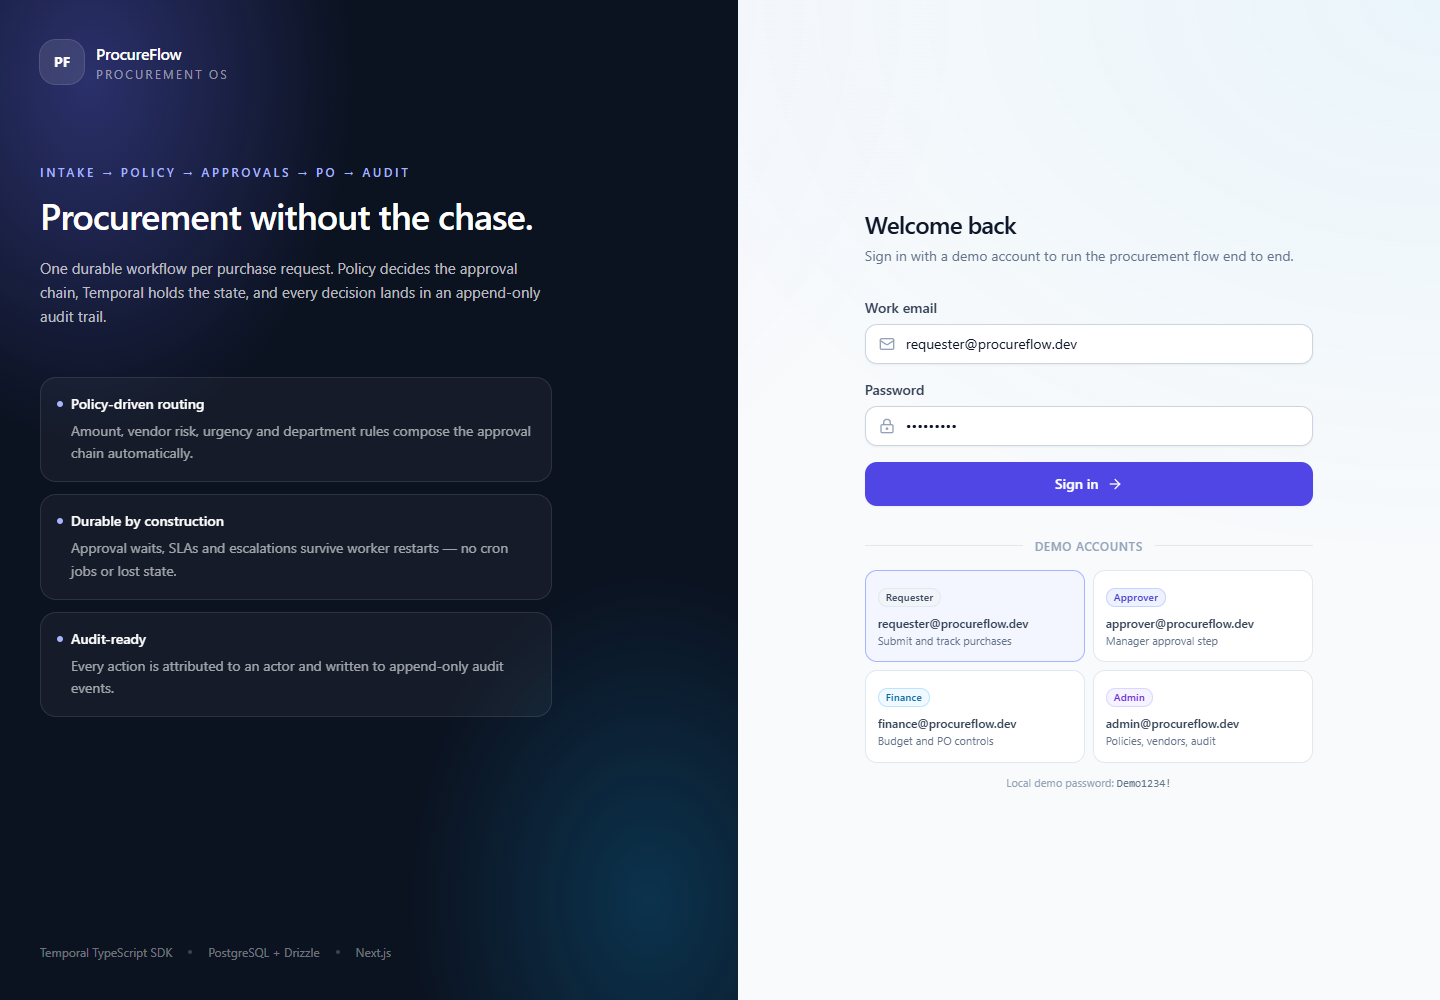
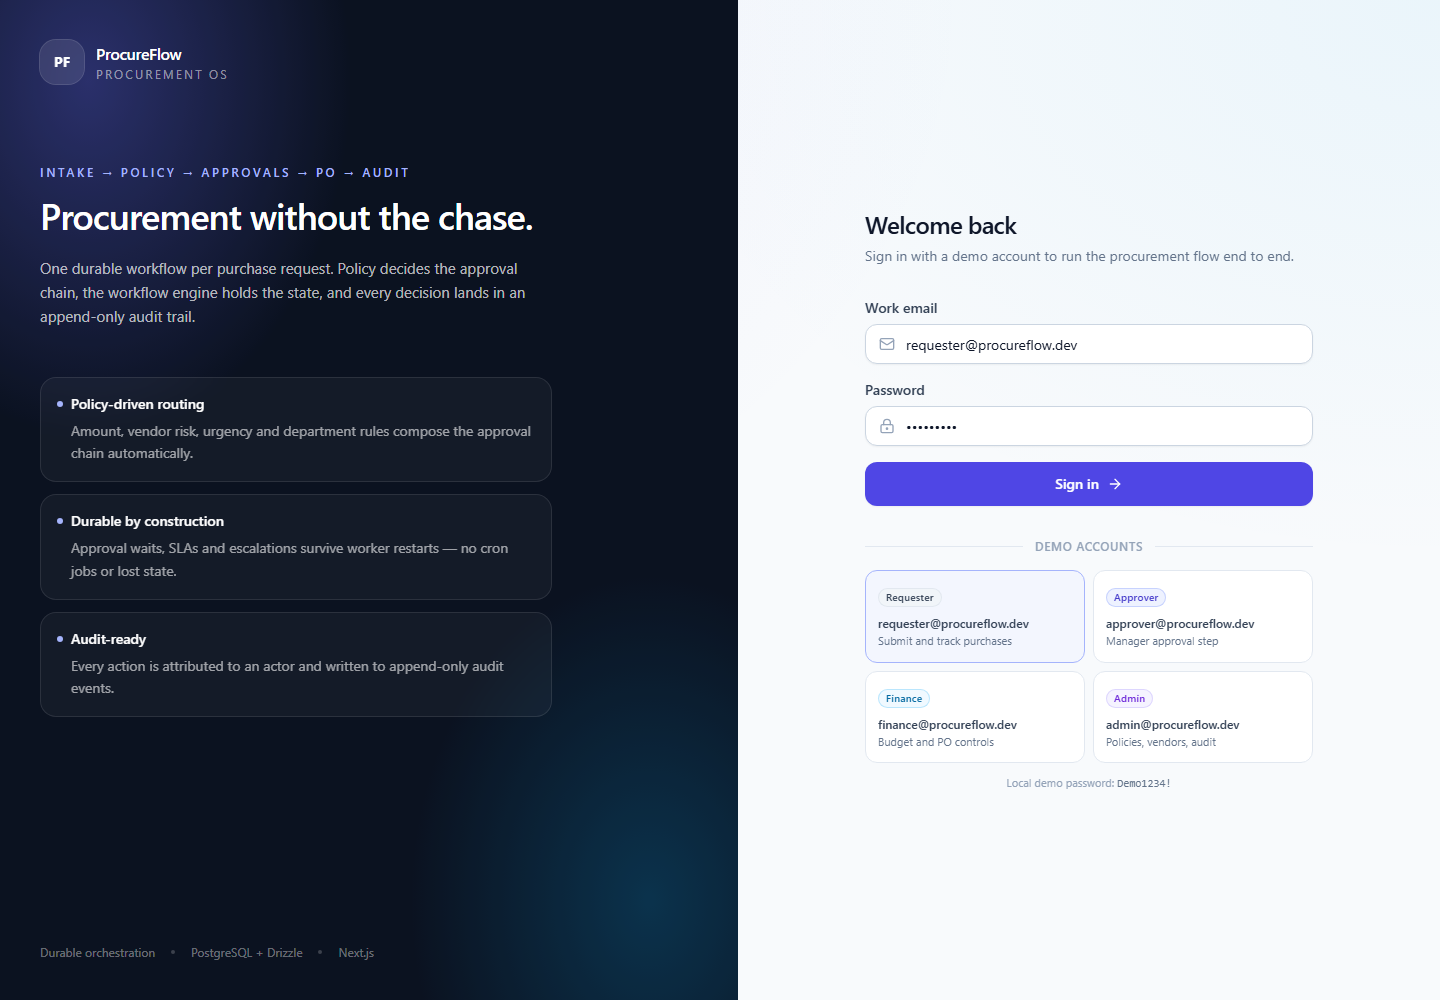
refactor(ui): make product surfaces and health payload vendor-neutral
Remove engine branding from navigation, login, workflow panels, approval
actions, vendor/request copy and the public health response. Rename the web
orchestration client module; infrastructure docs and env vars are unchanged
for operators.

diff --git a/apps/web/lib/orchestration.ts b/apps/web/lib/orchestration.ts
@@ -5,7 +5,7 @@ import {
   type ConnectionOptions,
 } from "@temporalio/client";
 import {
-  getTemporalConfig,
+  getOrchestrationConfig,
   type DecisionSignalInput,
   type PurchaseRequestWorkflowInput,
   type PurchaseRequestWorkflowState,
@@ -24,7 +24,7 @@ import {
 let clientPromise: Promise<Client> | undefined;
 
 function connectionOptions(): ConnectionOptions {
-  const config = getTemporalConfig();
+  const config = getOrchestrationConfig();
   return {
     address: config.address,
     ...(config.tls ? { tls: true } : {}),
@@ -32,9 +32,9 @@ function connectionOptions(): ConnectionOptions {
   };
 }
 
-export function getTemporalClient(): Promise<Client> {
+export function getOrchestrationClient(): Promise<Client> {
   if (!clientPromise) {
-    const config = getTemporalConfig();
+    const config = getOrchestrationConfig();
     clientPromise = (async () => {
       const connection = await Connection.connect(connectionOptions());
       return new Client({ connection, namespace: config.namespace });
@@ -62,8 +62,8 @@ export async function startPurchaseRequestWorkflow(params: {
   actorRole: Role;
   workflowId: string;
 }): Promise<StartWorkflowResult> {
-  const config = getTemporalConfig();
-  const client = await getTemporalClient();
+  const config = getOrchestrationConfig();
+  const client = await getOrchestrationClient();
   const input: PurchaseRequestWorkflowInput = {
     requestId: params.requestId,
     actorId: params.actorId,
@@ -99,7 +99,7 @@ export async function signalApprovalDecision(params: {
   actorRole: Role;
   comment?: string;
 }): Promise<void> {
-  const client = await getTemporalClient();
+  const client = await getOrchestrationClient();
   const handle = client.workflow.getHandle(params.workflowId);
   const input: DecisionSignalInput = {
     taskId: params.taskId,
@@ -116,7 +116,7 @@ export async function signalResubmission(params: {
   actorRole: Role;
   comment?: string;
 }): Promise<void> {
-  const client = await getTemporalClient();
+  const client = await getOrchestrationClient();
   const handle = client.workflow.getHandle(params.workflowId);
   const input: ResubmitSignalInput = {
     actorId: params.actorId,
@@ -144,7 +144,7 @@ export async function queryPurchaseRequestState(
   workflowId: string,
 ): Promise<PurchaseRequestWorkflowState | null> {
   try {
-    const client = await withTimeout(getTemporalClient(), 2_500, "temporal_client");
+    const client = await withTimeout(getOrchestrationClient(), 2_500, "orchestration_client");
     const handle = client.workflow.getHandle(workflowId);
     return await withTimeout(
       handle.query<PurchaseRequestWorkflowState>(QUERIES.getState),
@@ -160,8 +160,8 @@ export async function startVendorOnboarding(params: {
   vendorId: string;
   actorId: string;
 }): Promise<StartWorkflowResult> {
-  const config = getTemporalConfig();
-  const client = await getTemporalClient();
+  const config = getOrchestrationConfig();
+  const client = await getOrchestrationClient();
   const workflowId = WORKFLOW_IDS.vendorOnboarding(params.vendorId);
   try {
     const handle = await client.workflow.start(WORKFLOW_NAMES.vendorOnboarding, {
@@ -186,7 +186,7 @@ export async function signalVendorDecision(params: {
   comment?: string;
   riskLevel?: "LOW" | "MEDIUM" | "HIGH";
 }): Promise<void> {
-  const client = await getTemporalClient();
+  const client = await getOrchestrationClient();
   const workflowId = WORKFLOW_IDS.vendorOnboarding(params.vendorId);
   const input: VendorDecisionSignalInput = {
     actorId: params.actorId,
@@ -212,7 +212,7 @@ export async function signalVendorDecision(params: {
 
 export async function queryVendorState(workflowId: string): Promise<VendorOnboardingWorkflowState | null> {
   try {
-    const client = await withTimeout(getTemporalClient(), 2_500, "temporal_client");
+    const client = await withTimeout(getOrchestrationClient(), 2_500, "orchestration_client");
     const handle = client.workflow.getHandle(workflowId);
     return await withTimeout(
       handle.query<VendorOnboardingWorkflowState>(VENDOR_QUERIES.getVendorState),
@@ -225,8 +225,8 @@ export async function queryVendorState(workflowId: string): Promise<VendorOnboar
 }
 
 export async function startNotificationOutboxWorkflow(limit: number): Promise<{ workflowId: string; runId: string }> {
-  const config = getTemporalConfig();
-  const client = await getTemporalClient();
+  const config = getOrchestrationConfig();
+  const client = await getOrchestrationClient();
   const workflowId = `notification-outbox-${Date.now()}-${Math.random().toString(36).slice(2, 8)}`;
   const handle = await client.workflow.start(WORKFLOW_NAMES.notificationOutbox, {
     taskQueue: config.taskQueue,
@@ -236,7 +236,7 @@ export async function startNotificationOutboxWorkflow(limit: number): Promise<{ 
   return { workflowId: handle.workflowId, runId: handle.firstExecutionRunId };
 }
 
-export interface TemporalHealth {
+export interface OrchestrationHealth {
   ok: boolean;
   address: string;
   namespace: string;
@@ -246,15 +246,15 @@ export interface TemporalHealth {
   error?: string;
 }
 
-export async function getTemporalHealth(): Promise<TemporalHealth> {
-  const config = getTemporalConfig();
+export async function getOrchestrationHealth(): Promise<OrchestrationHealth> {
+  const config = getOrchestrationConfig();
   let connection: Connection | undefined;
   try {
-    connection = await withTimeout(Connection.connect(connectionOptions()), 3_000, "temporal_connect");
+    connection = await withTimeout(Connection.connect(connectionOptions()), 3_000, "orchestration_connect");
     const info = await withTimeout(
       connection.workflowService.getSystemInfo({}),
       3_000,
-      "temporal_system_info",
+      "orchestration_system_info",
     );
     return {
       ok: true,

diff --git a/apps/web/app/(app)/requests/[id]/page.tsx b/apps/web/app/(app)/requests/[id]/page.tsx
@@ -31,7 +31,7 @@ import { ApprovalActions } from "@/components/approvals/approval-actions";
 import { RequestActions } from "@/components/requests/request-actions";
 import { getRequestDetail } from "@/lib/queries";
 import { requirePageUser } from "@/lib/session";
-import { queryPurchaseRequestState } from "@/lib/temporal";
+import { queryPurchaseRequestState } from "@/lib/orchestration";
 import { RISK_STYLES, cn, humanize } from "@/lib/utils";
 
 export const dynamic = "force-dynamic";
@@ -74,10 +74,6 @@ export default async function RequestDetailPage({ params }: { params: { id: stri
     user.id !== detail.requesterId &&
     (user.role === "ADMIN" || currentTask?.approverRole === user.role);
   const isOwner = detail.requesterId === user.id;
-
-  const temporalUiUrl = `${process.env.TEMPORAL_UI_URL ?? "http://localhost:8233"}/namespaces/${
-    process.env.TEMPORAL_NAMESPACE ?? "default"
-  }/workflows/${detail.workflowId ?? ""}`;
 
   return (
     <div className="space-y-6">
@@ -228,7 +224,7 @@ export default async function RequestDetailPage({ params }: { params: { id: stri
                   Approval chain
                 </CardTitle>
                 <p className="mt-0.5 text-sm text-slate-500">
-                  Managed by Temporal workflow <span className="font-mono text-xs">{detail.workflowId}</span>
+                  Managed by durable workflow <span className="font-mono text-xs">{detail.workflowId}</span>
                 </p>
               </div>
               <Badge tone="brand">Step {detail.currentStep || 0}</Badge>
@@ -305,7 +301,7 @@ export default async function RequestDetailPage({ params }: { params: { id: stri
                   <p className="font-semibold">An approver requested changes.</p>
                   <p className="mt-1 text-orange-700">
                     Update the request if needed, then use <strong>Resubmit for approval</strong>. The same
-                    Temporal workflow resumes with a new policy evaluation.
+                    workflow resumes with a new policy evaluation.
                   </p>
                 </div>
               ) : null}
@@ -363,7 +359,7 @@ export default async function RequestDetailPage({ params }: { params: { id: stri
             <CardHeader>
               <CardTitle className="flex items-center gap-2">
                 <Workflow className="h-4 w-4 text-slate-400" />
-                Temporal workflow
+                Workflow execution
               </CardTitle>
             </CardHeader>
             <CardContent className="space-y-4">
@@ -417,21 +413,10 @@ export default async function RequestDetailPage({ params }: { params: { id: stri
                 </>
               ) : (
                 <p className="text-xs leading-relaxed text-slate-500">
-                  Workflow state is queried live from Temporal. If the worker or server is offline, the
-                  PostgreSQL read model above remains authoritative.
+                  Workflow state is queried live from the orchestration service. If the worker or server is
+                  offline, the PostgreSQL read model above remains authoritative.
                 </p>
               )}
-              {detail.workflowId ? (
-                <a
-                  href={temporalUiUrl}
-                  target="_blank"
-                  rel="noreferrer"
-                  className="inline-flex items-center gap-1.5 text-xs font-medium text-brand-600 hover:text-brand-700"
-                >
-                  Open in Temporal UI
-                  <ExternalLink className="h-3.5 w-3.5" />
-                </a>
-              ) : null}
             </CardContent>
           </Card>
 

diff --git a/apps/web/app/api/health/route.ts b/apps/web/app/api/health/route.ts
@@ -1,7 +1,7 @@
 import { sql } from "drizzle-orm";
 import { getDb } from "@procureflow/db";
-import { getTemporalConfig } from "@procureflow/shared";
-import { getTemporalHealth } from "@/lib/temporal";
+import { getOrchestrationConfig } from "@procureflow/shared";
+import { getOrchestrationHealth } from "@/lib/orchestration";
 import { json } from "@/lib/api";
 
 export const dynamic = "force-dynamic";
@@ -25,9 +25,9 @@ async function checkDatabase(): Promise<{ ok: boolean; latencyMs: number; error?
 
 export async function GET() {
   const started = Date.now();
-  const [database, temporal] = await Promise.all([checkDatabase(), getTemporalHealth()]);
-  const config = getTemporalConfig();
-  const healthy = database.ok && temporal.ok;
+  const [database, orchestration] = await Promise.all([checkDatabase(), getOrchestrationHealth()]);
+  const config = getOrchestrationConfig();
+  const healthy = database.ok && orchestration.ok;
 
   return json(
     {
@@ -42,17 +42,17 @@ export async function GET() {
           latencyMs: database.latencyMs,
           ...(database.error ? { error: database.error } : {}),
         },
-        temporal: {
-          ok: temporal.ok,
-          address: temporal.address,
-          namespace: temporal.namespace,
-          taskQueue: temporal.taskQueue,
-          serverVersion: temporal.serverVersion,
-          reworkEnabled: temporal.reworkEnabled,
-          ...(temporal.error ? { error: temporal.error } : {}),
+        orchestration: {
+          ok: orchestration.ok,
+          address: orchestration.address,
+          namespace: orchestration.namespace,
+          taskQueue: orchestration.taskQueue,
+          engineVersion: orchestration.serverVersion,
+          searchAttributesEnabled: orchestration.reworkEnabled,
+          ...(orchestration.error ? { error: orchestration.error } : {}),
         },
       },
-      temporalReworkEnabled: config.reworkEnabled,
+      features: { searchAttributes: config.reworkEnabled },
     },
     healthy ? 200 : 503,
   );

diff --git a/scripts/smoke.ts b/scripts/smoke.ts
@@ -1,13 +1,13 @@
 /**
  * End-to-end smoke test against a running ProcureFlow stack.
  *
- * Prerequisites: Postgres, Temporal, the worker and the Next.js app are running,
+ * Prerequisites: Postgres, the workflow engine, the worker and the Next.js app are running,
  * and the database has been migrated + seeded.
  *
  *   pnpm smoke
  *   BASE_URL=http://localhost:3000 pnpm smoke
  *
- * It exercises the real HTTP API, real Temporal workflows and the real database:
+ * It exercises the real HTTP API, real durable workflows and the real database:
  * login -> create request -> submit -> manager approve -> finance approve ->
  * PO issued -> audit trail visible.
  */
@@ -191,12 +191,12 @@ async function main(): Promise<void> {
 
   const health = await requester.json<{
     status: string;
-    checks: { database: { ok: boolean }; temporal: { ok: boolean; address: string } };
+    checks: { database: { ok: boolean }; orchestration: { ok: boolean; address: string } };
   }>("/api/health");
   if (health.status !== "ok") {
     throw new Error(`Health check is not OK: ${JSON.stringify(health)}`);
   }
-  console.log(`  ✓ health ok (Temporal ${health.checks.temporal.address})`);
+  console.log(`  ✓ health ok (workflow engine ${health.checks.orchestration.address})`);
 
   await requester.login("requester@procureflow.dev");
   await approver.login("approver@procureflow.dev");
@@ -232,7 +232,7 @@ async function main(): Promise<void> {
   if (!submitResponse.ok) {
     throw new Error(`Submit failed: ${submitResponse.status} ${await submitResponse.text()}`);
   }
-  console.log("  ✓ submitted request; Temporal workflow started");
+  console.log("  ✓ submitted request; durable workflow started");
 
   const detail = await waitFor<RequestDetailResponse>(
     "approval chain",

diff --git a/apps/web/app/login/page.tsx b/apps/web/app/login/page.tsx
@@ -44,8 +44,8 @@ export default async function LoginPage({
               Procurement without the chase.
             </h1>
             <p className="mt-5 text-[15px] leading-relaxed text-white/70">
-              One durable workflow per purchase request. Policy decides the approval chain, Temporal
-              holds the state, and every decision lands in an append-only audit trail.
+              One durable workflow per purchase request. Policy decides the approval chain, the workflow
+              engine holds the state, and every decision lands in an append-only audit trail.
             </p>
           </div>
 
@@ -70,7 +70,7 @@ export default async function LoginPage({
         </div>
 
         <div className="relative flex items-center gap-4 text-xs text-white/40">
-          <span>Temporal TypeScript SDK</span>
+          <span>Durable orchestration</span>
           <span className="h-1 w-1 rounded-full bg-white/20" />
           <span>PostgreSQL + Drizzle</span>
           <span className="h-1 w-1 rounded-full bg-white/20" />

diff --git a/apps/web/app/api/approvals/[taskId]/route.ts b/apps/web/app/api/approvals/[taskId]/route.ts
@@ -9,7 +9,7 @@ import {
 } from "@/lib/api";
 import { enforceRateLimit } from "@/lib/rate-limit";
 import { getApprovalTaskForApi } from "@/lib/queries";
-import { signalApprovalDecision } from "@/lib/temporal";
+import { signalApprovalDecision } from "@/lib/orchestration";
 import { logger } from "@/lib/logger";
 
 export const dynamic = "force-dynamic";
@@ -45,7 +45,7 @@ export async function POST(request: Request, context: { params: { taskId: string
       );
     }
     if (!pr.workflowId) {
-      throw new ApiError(409, "This request has no active Temporal workflow", "workflow_missing");
+      throw new ApiError(409, "This request has no active orchestration workflow", "workflow_missing");
     }
 
     await signalApprovalDecision({

diff --git a/apps/web/components/requests/request-edit-form.tsx b/apps/web/components/requests/request-edit-form.tsx
@@ -339,8 +339,8 @@ export function RequestEditForm({
           </div>
           <div className="rounded-xl bg-slate-50 p-3 text-xs leading-relaxed text-slate-600">
             Saving the request updates the PostgreSQL read model and writes a `REQUEST_UPDATED` audit
-            event. Resubmitting sends the `resubmit` signal to the existing Temporal workflow, which
-            re-evaluates policy and starts a new approval chain.
+            event. Resubmitting sends the resubmit signal to the existing workflow, which re-evaluates
+            policy and starts a new approval chain.
           </div>
         </CardContent>
       </Card>

diff --git a/apps/web/components/app-shell.tsx b/apps/web/components/app-shell.tsx
@@ -140,7 +140,7 @@ export function AppShell({
             </div>
             <div className="hidden items-center gap-2 text-xs font-medium text-slate-500 lg:flex">
               <Sparkles className="h-3.5 w-3.5 text-brand-500" />
-              Durable approvals powered by Temporal
+              Durable approvals, audit-ready by default
             </div>
             <div className="flex items-center gap-3">
               <span className="hidden text-xs text-slate-500 sm:block">{user.department}</span>

diff --git a/apps/web/app/layout.tsx b/apps/web/app/layout.tsx
@@ -7,7 +7,7 @@ export const metadata: Metadata = {
     template: "%s · ProcureFlow",
   },
   description:
-    "ProcureFlow turns purchase requests into policy-checked approvals, purchase orders and an audit trail, orchestrated durably by Temporal.",
+    "ProcureFlow turns purchase requests into policy-checked approvals, purchase orders and an audit trail with durable orchestration.",
 };
 
 export default function RootLayout({ children }: { children: React.ReactNode }) {

diff --git a/apps/web/app/(app)/vendors/page.tsx b/apps/web/app/(app)/vendors/page.tsx
@@ -53,7 +53,7 @@ export default async function VendorsPage() {
           <div>
             <CardTitle>All vendors</CardTitle>
             <p className="mt-0.5 text-sm text-slate-500">
-              {vendors.length} vendor{vendors.length === 1 ? "" : "s"} · onboarding decisions run as a Temporal
+              {vendors.length} vendor{vendors.length === 1 ? "" : "s"} · onboarding decisions run as a durable
               workflow.
             </p>
           </div>

diff --git a/apps/web/components/approvals/approval-actions.tsx b/apps/web/components/approvals/approval-actions.tsx
@@ -67,7 +67,7 @@ export function ApprovalActions({
         <p className="text-sm font-semibold text-slate-900">
           Your decision{role ? ` · ${role.toLowerCase()} step` : ""}
         </p>
-        <span className="text-[11px] text-slate-400">Signals the Temporal workflow</span>
+        <span className="text-[11px] text-slate-400">Sends a durable decision signal</span>
       </div>
       <Textarea
         value={comment}

diff --git a/apps/web/app/api/vendors/[id]/review/route.ts b/apps/web/app/api/vendors/[id]/review/route.ts
@@ -1,7 +1,7 @@
 import { ApiError, assertSameOrigin, handleApiError, json, requireApiUser } from "@/lib/api";
 import { enforceRateLimit } from "@/lib/rate-limit";
 import { getVendorForApi } from "@/lib/queries";
-import { startVendorOnboarding } from "@/lib/temporal";
+import { startVendorOnboarding } from "@/lib/orchestration";
 
 export const dynamic = "force-dynamic";
 
